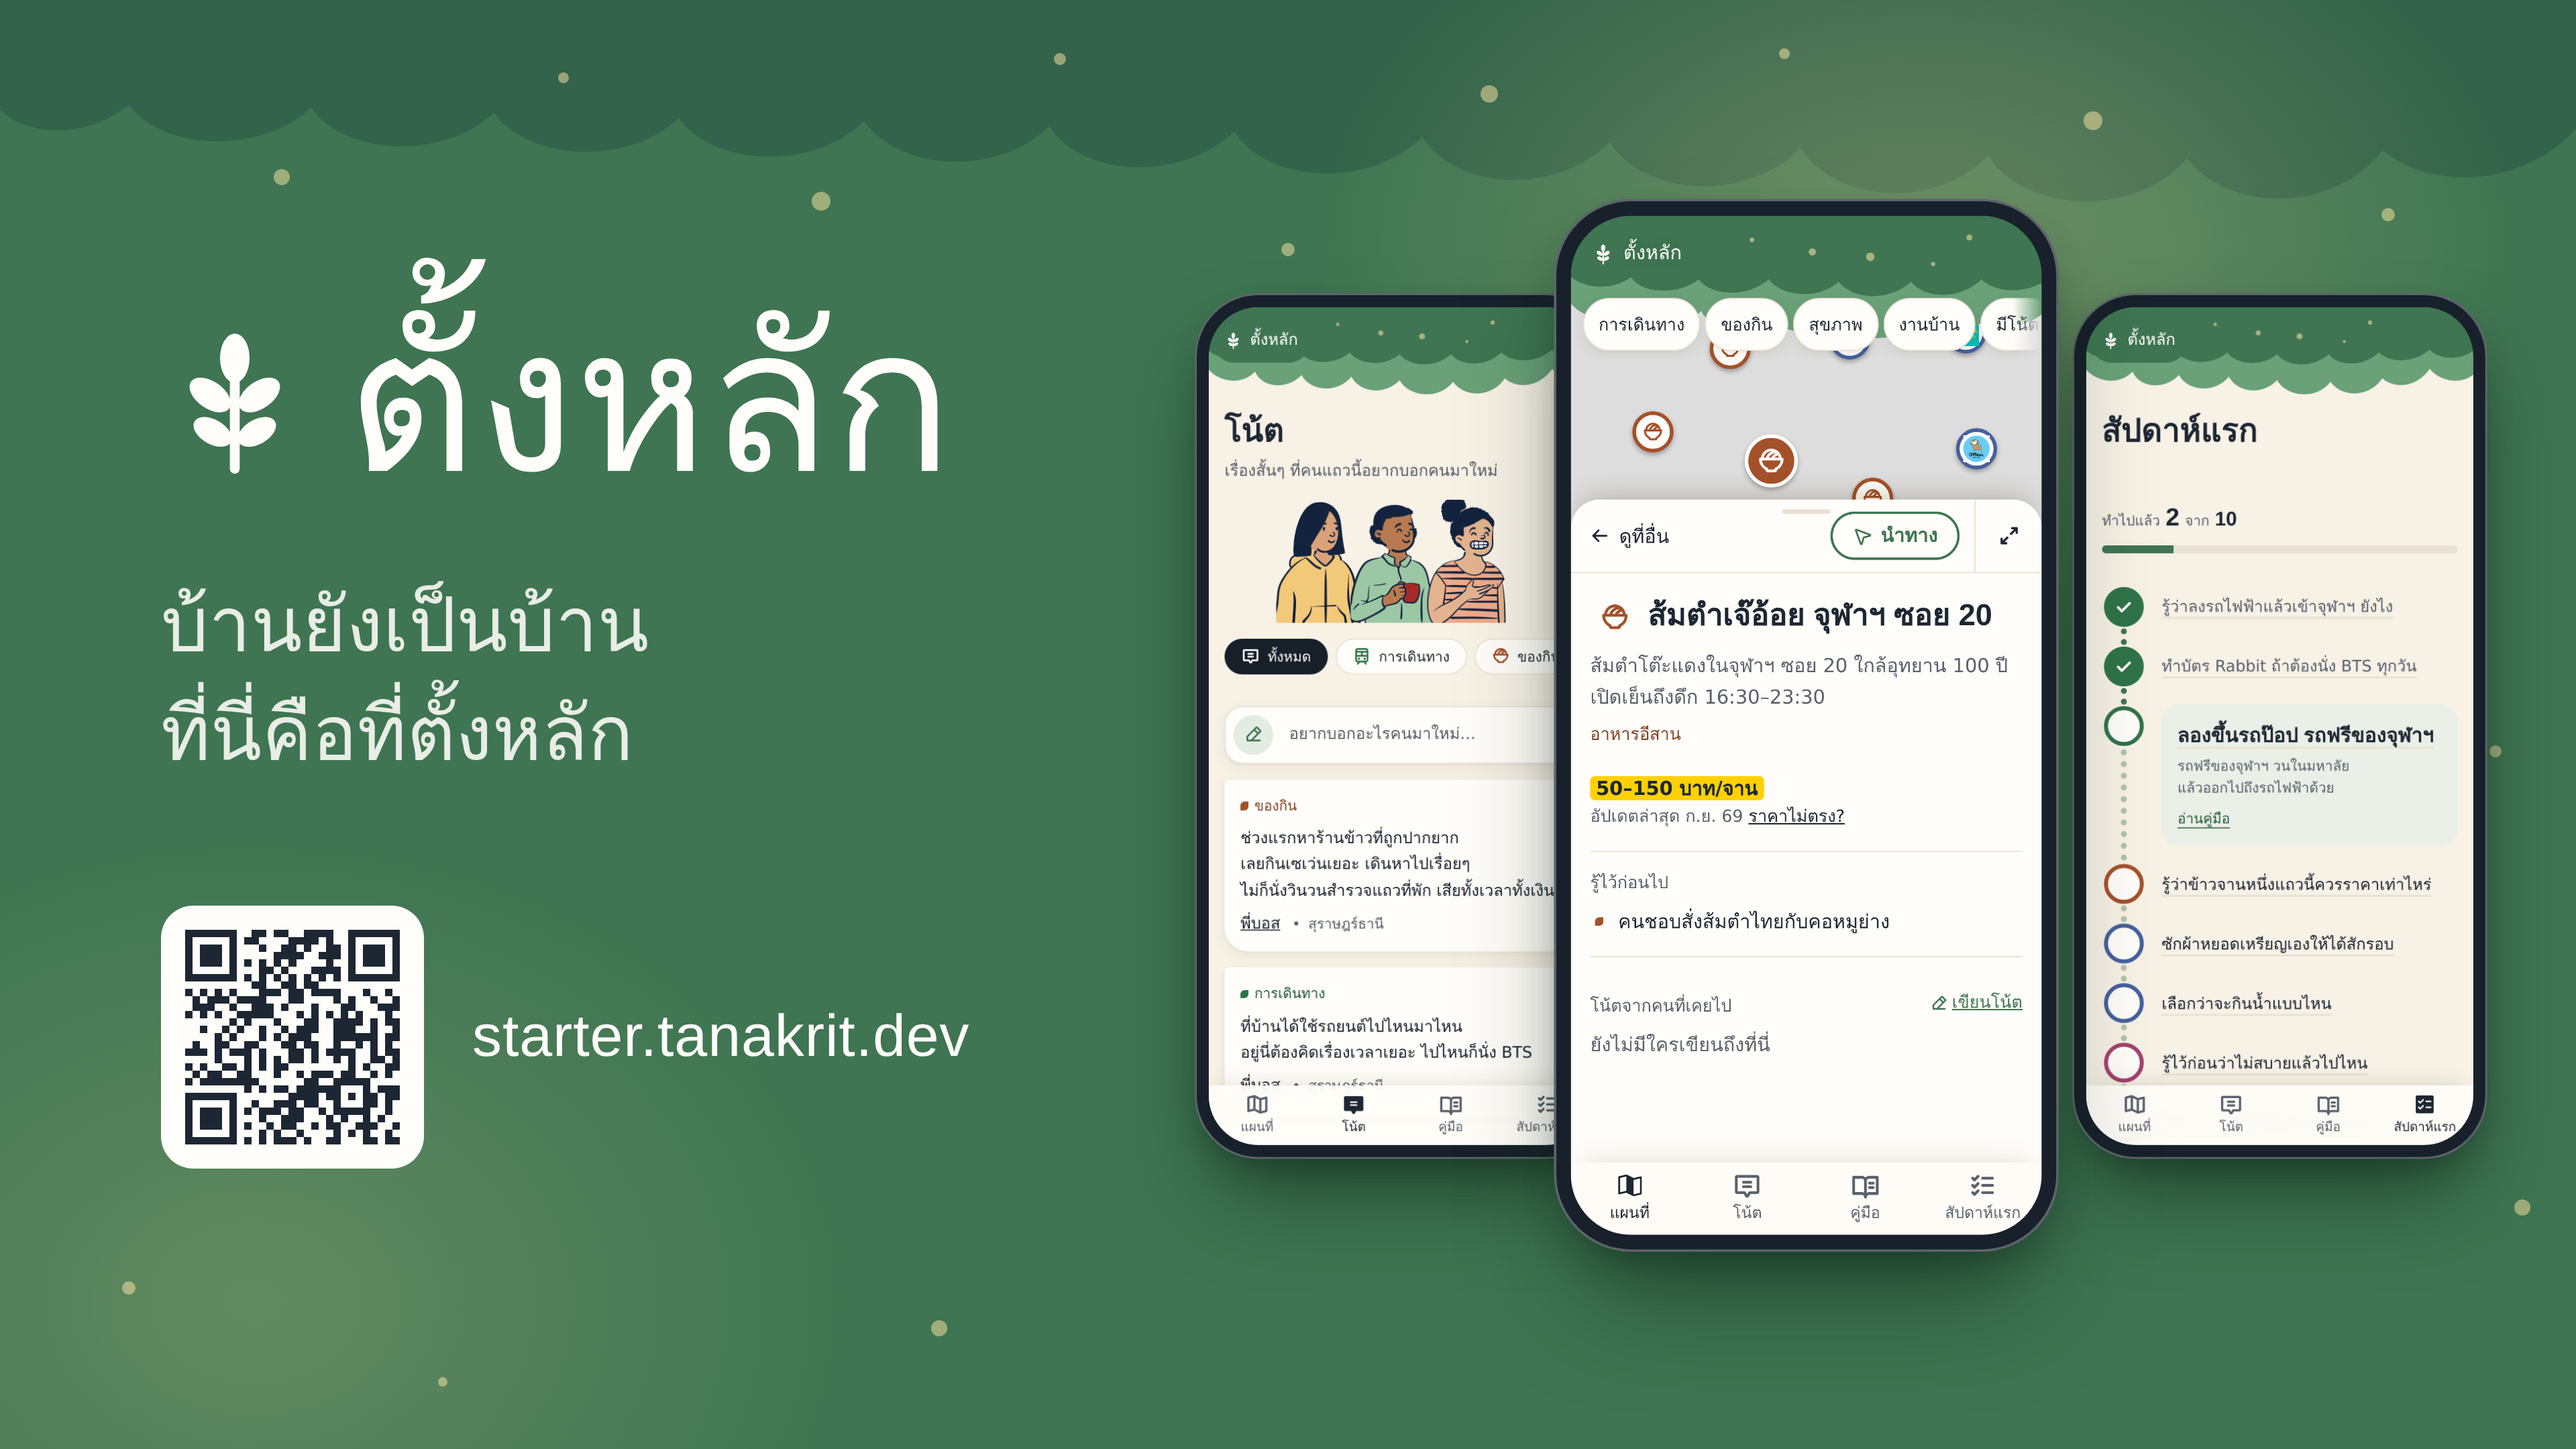
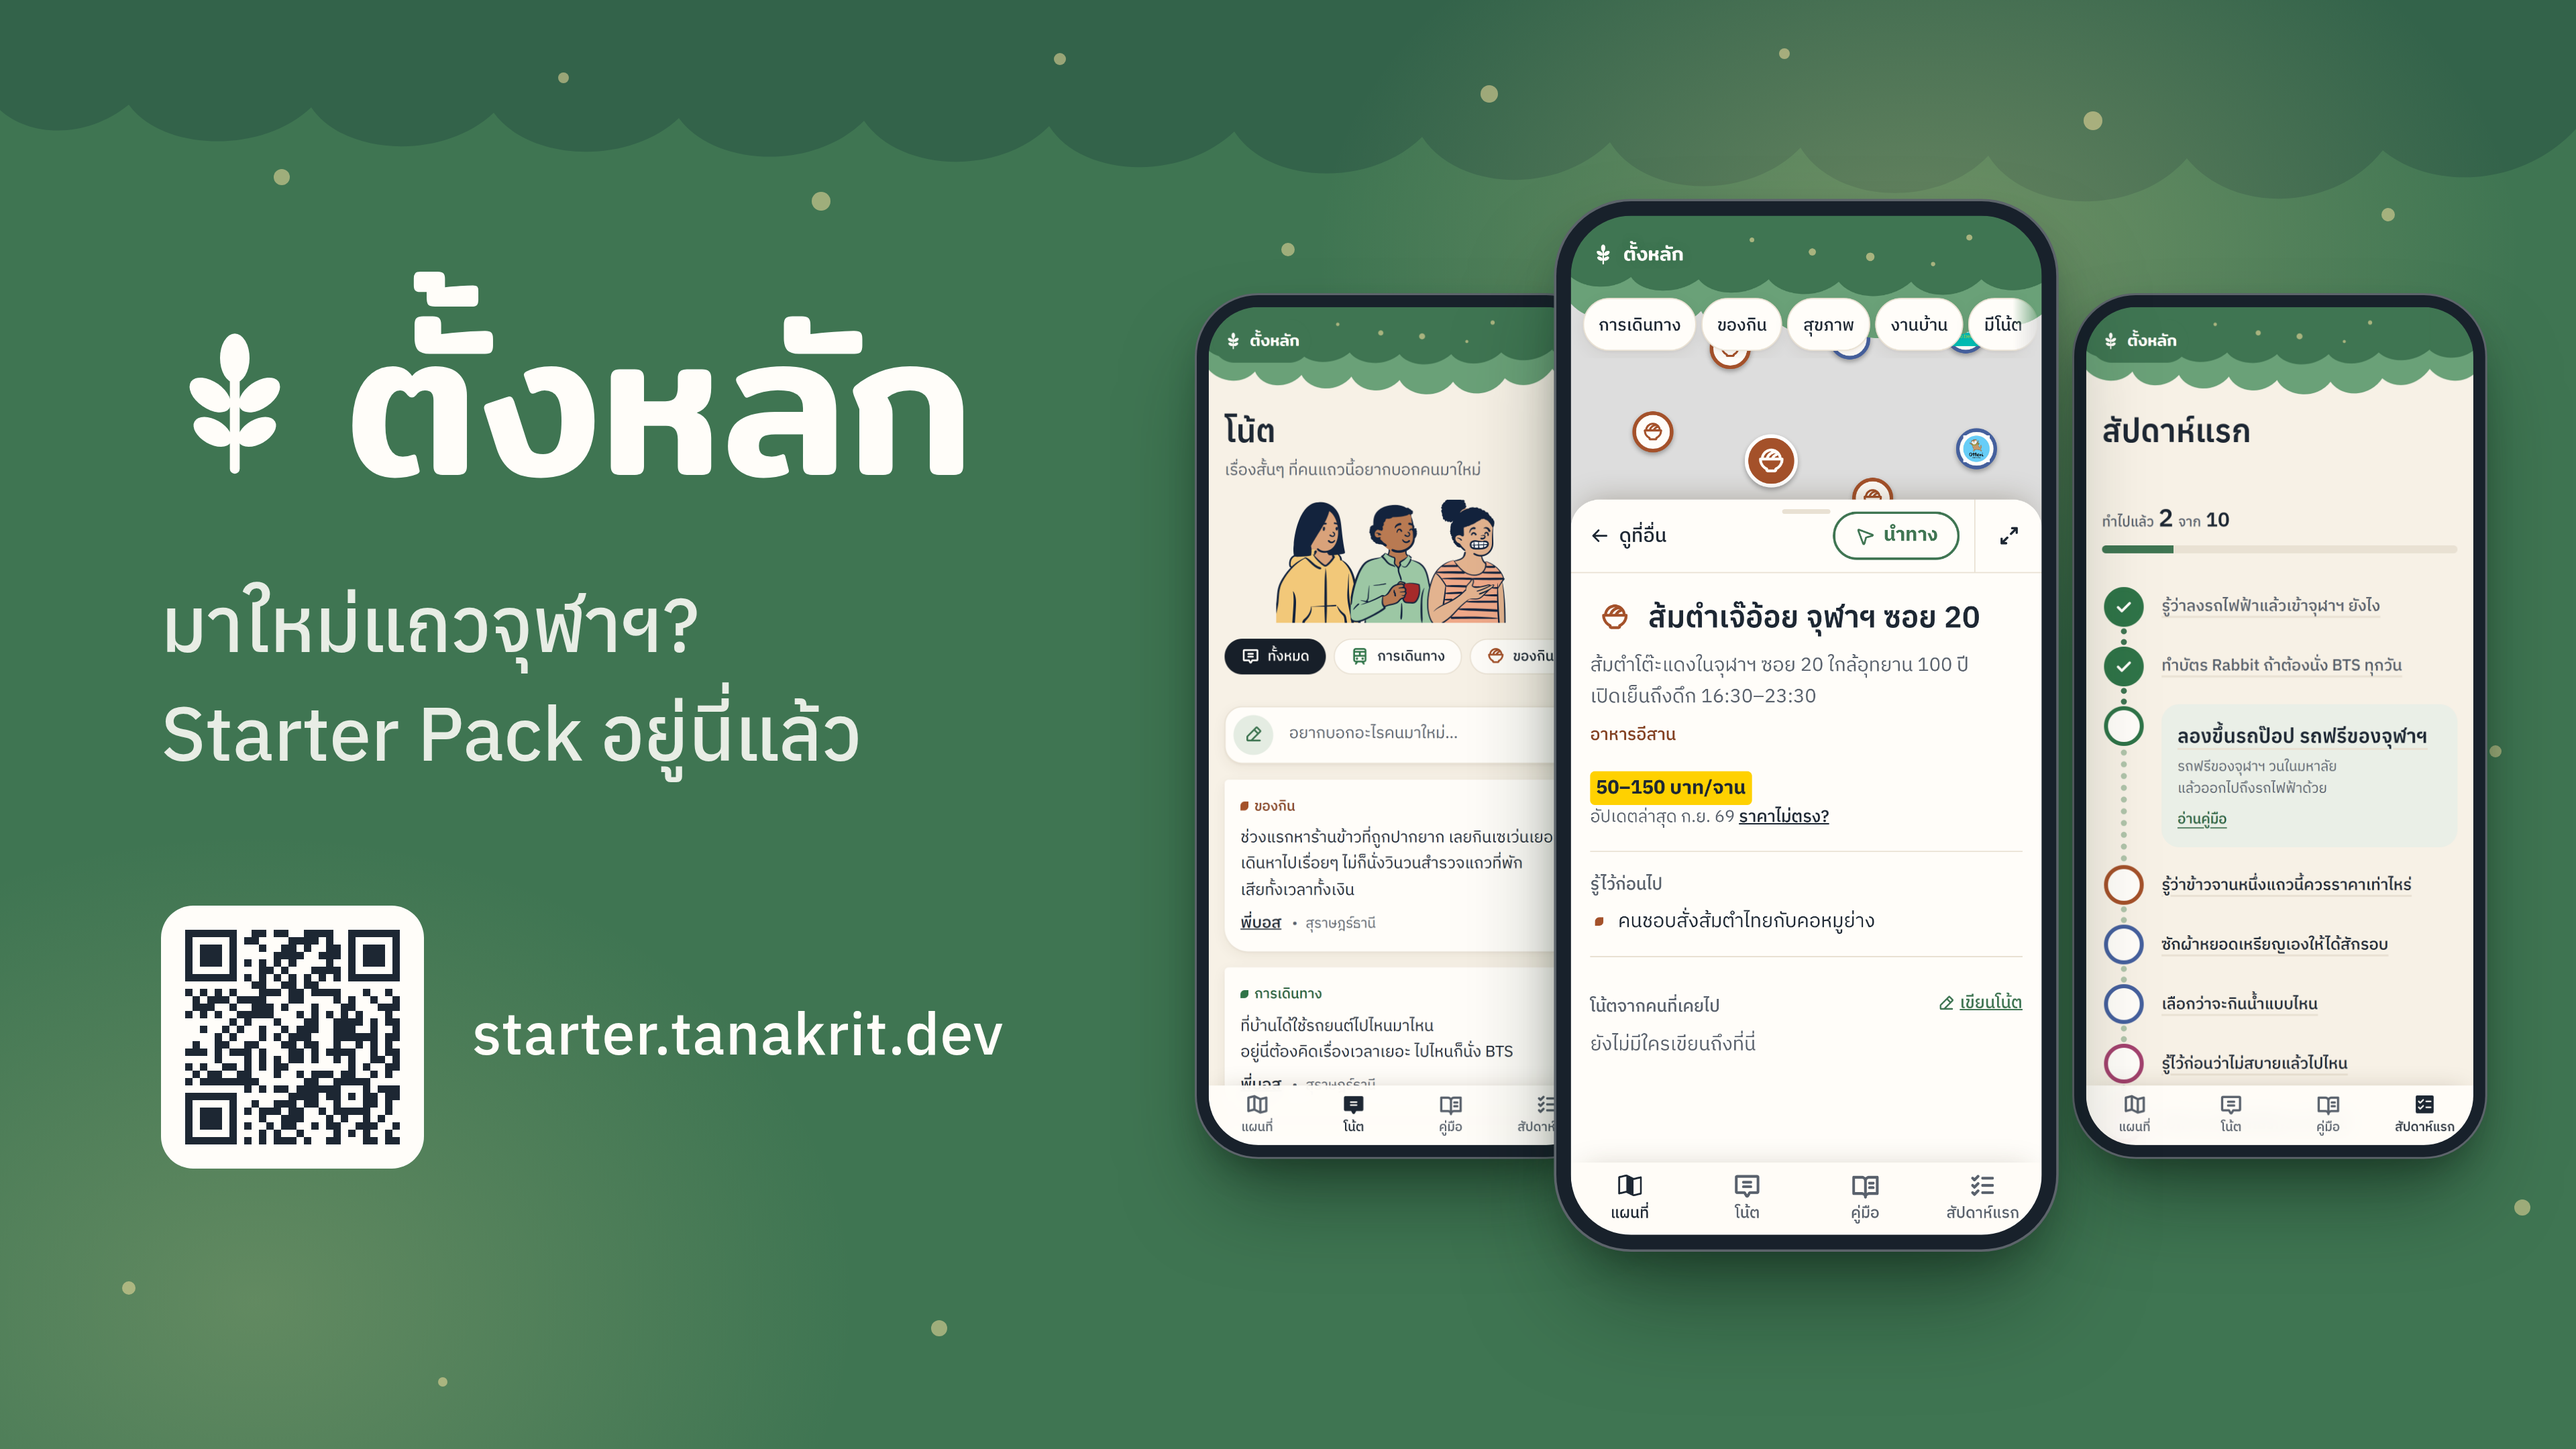
Make the tagline 'มาใหม่แถวจุฬาฯ? Starter Pack อยู่นี่แล้ว'
On the slide, the site's description, README and CONTEXT.md, so the slide and a
shared link say the same thing. The slide's screens are taken again with the
site's own fonts (the first ones fell back to system fonts).

Claude-Session: https://claude.ai/code/session_016cHqVAnYV8PybnBxiTFMbe

diff --git a/app/layout.tsx b/app/layout.tsx
@@ -12,7 +12,7 @@ import "./globals.css";
 
 export const metadata: Metadata = {
   title: "ตั้งหลัก",
-  description: "บ้านยังเป็นบ้าน ที่นี่คือที่ตั้งหลัก วิธีใช้ชีวิตแถวจุฬาฯ ที่แผนที่ไม่ได้บอก จากรุ่นพี่ที่เคยมาใหม่เหมือนกัน",
+  description: "มาใหม่แถวจุฬาฯ? Starter Pack อยู่นี่แล้ว วิธีใช้ชีวิตแถวนี้ที่แผนที่ไม่ได้บอก จากรุ่นพี่ที่เคยมาใหม่เหมือนกัน",
 };
 
 export const viewport: Viewport = { // The phone's bar takes the canopy's dark leaves (--leaf-dark in globals.css)

diff --git a/design/reveal.html b/design/reveal.html
@@ -144,7 +144,7 @@
       </svg>
       <span>ตั้งหลัก</span>
     </div>
-    <p class="tagline">บ้านยังเป็นบ้าน<br>ที่นี่คือที่ตั้งหลัก</p>
+    <p class="tagline">มาใหม่แถวจุฬาฯ?<br>Starter Pack อยู่นี่แล้ว</p>
     <div class="try">
       <div class="qr"><img src="reveal/qr.svg" alt=""></div>
       <span id="link">starter.tanakrit.dev</span>

diff --git a/CONTEXT.md b/CONTEXT.md
@@ -1,6 +1,6 @@
 # ตั้งหลัก (Being Human New World)
 
-A starter pack that gives people who have just moved into a Bangkok campus area the local know-how that maps and search engines don't carry. Tagline: "บ้านยังเป็นบ้าน ที่นี่คือที่ตั้งหลัก". All user-facing text is Thai, written in a senior-to-junior voice.
+A starter pack that gives people who have just moved into a Bangkok campus area the local know-how that maps and search engines don't carry. Tagline: "มาใหม่แถวจุฬาฯ? Starter Pack อยู่นี่แล้ว". All user-facing text is Thai, written in a senior-to-junior voice.
 
 ## Language
 

diff --git a/README.md b/README.md
@@ -1,6 +1,6 @@
 # ตั้งหลัก
 
-บ้านยังเป็นบ้าน ที่นี่คือที่ตั้งหลัก: Starter pack สำหรับคนที่เพิ่งย้ายมาอยู่แถวจุฬาฯ
+มาใหม่แถวจุฬาฯ? Starter Pack อยู่นี่แล้ว
 โปรเจกต์กลุ่มวิชา Being Human in the Age of AI
 
 - คำศัพท์ของโปรเจกต์: `CONTEXT.md`
